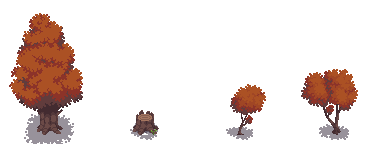
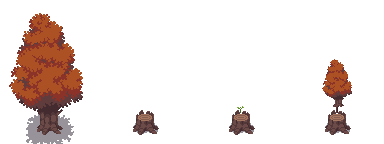
Wild trees: Rowil's template trees, each with its own stump; add pine
Maple, oak, birch and pine from the map's Props tileset, each over its own stump.
Regrowth now happens on that stump (a sprout, then a young crown). pine_1 replaces
the second maple.

Claude-Session: https://claude.ai/code/session_01L7gBnkwSfa3i2qjrmiKi7Z

Changed region(s): [[0.7812, 0.4167, 0.9375, 0.9722], [0.5938, 0.5833, 0.7188, 0.9722], [0.3438, 0.8889, 0.4062, 0.9722]]

diff --git a/lib/gardenConfig.ts b/lib/gardenConfig.ts
@@ -52,15 +52,17 @@ export const VEGGIE_SELL_PRICE = 2;
 export const GARDEN_STACK = 20;
 
 // ── Trees ──────────────────────────────────────────────────────────────────
-// Art: public/garden/tree_<id>.png, four 96x144 frames (ready, stump, small tree, young tree)
-// with the trunk base at (48, 134), cut from the map's own tileset (Props.png).
-export type TreeId = 'maple' | 'oak' | 'birch';
+// Art: public/garden/tree_<id>.png, four 96x144 frames (ready, stump, sprout, young crown)
+// with the trunk base at (48, 134), cut from the map's own tileset (Props.png). Each kind
+// has its own stump, and every growth stage grows on that stump.
+export type TreeId = 'maple' | 'oak' | 'birch' | 'pine';
 export const TREES: Record<TreeId, { id: TreeId; label: string }> = {
   maple: { id: 'maple', label: 'Maple' },
   oak:   { id: 'oak',   label: 'Oak' },
   birch: { id: 'birch', label: 'Birch' },
+  pine:  { id: 'pine',  label: 'Pine' },
 };
-export const TREE_ORDER: TreeId[] = ['maple', 'oak', 'birch'];
+export const TREE_ORDER: TreeId[] = ['maple', 'oak', 'birch', 'pine'];
 
 // Same list as wild_tree_nodes in the migration. x, y is the trunk's tile.
 export interface WildTreeNode { id: string; tree: TreeId; x: number; y: number }
@@ -69,7 +71,7 @@ export const WILD_TREES: Record<string, WildTreeNode[]> = {
     { id: 'maple_1', tree: 'maple', x: 20, y: 7 },
     { id: 'oak_1',   tree: 'oak',   x: 42, y: 13 },
     { id: 'birch_1', tree: 'birch', x: 9,  y: 35 },
-    { id: 'maple_2', tree: 'maple', x: 42, y: 30 },
+    { id: 'pine_1',  tree: 'pine',  x: 42, y: 30 },
   ],
 };
 // The tiles a tree's canopy covers above its trunk (3 wide, 3 up): nothing spawns there.
@@ -80,7 +82,7 @@ export const TREE_REGROW_MS = 4 * 60 * 60 * 1000;
 export const CHOP_SWINGS = 3;
 export const WOOD_PER_TREE = 3;
 
-// How a tree looks: ready (ribboned), a stump, a small tree, a young tree (thirds of the regrow).
+// How a tree looks: ready (ribboned), a stump, a sprout on it, a young crown (thirds of the regrow).
 export type TreeStage = 'ready' | 'stump' | 'small' | 'young';
 export function treeStage(readyAt: number | null, now: number): TreeStage {
   if (readyAt === null || now >= readyAt) return 'ready';

diff --git a/lib/phaserMap/wildTrees.ts b/lib/phaserMap/wildTrees.ts
@@ -1,7 +1,7 @@
 // lib/phaserMap/wildTrees.ts
 // Draws the wild trees (lib/gardenConfig.ts WILD_TREES) on a tile-art map, and the chop effects.
-// Each tree's art is a strip of four 96x144 frames: ready, stump, small tree, young tree, with
-// the trunk base at (48, 134) so it stands near the bottom of its trunk tile.
+// Each tree's art is a strip of four 96x144 frames: ready, stump, a sprout on the stump, a young
+// crown on it, with the trunk base at (48, 134) so it stands near the bottom of its trunk tile.
 //
 // Like the map's own trees, each one is split in two at the top of the trunk tile: the trunk
 // part sits under the players, the canopy above them, so a kid walking behind a tree goes
